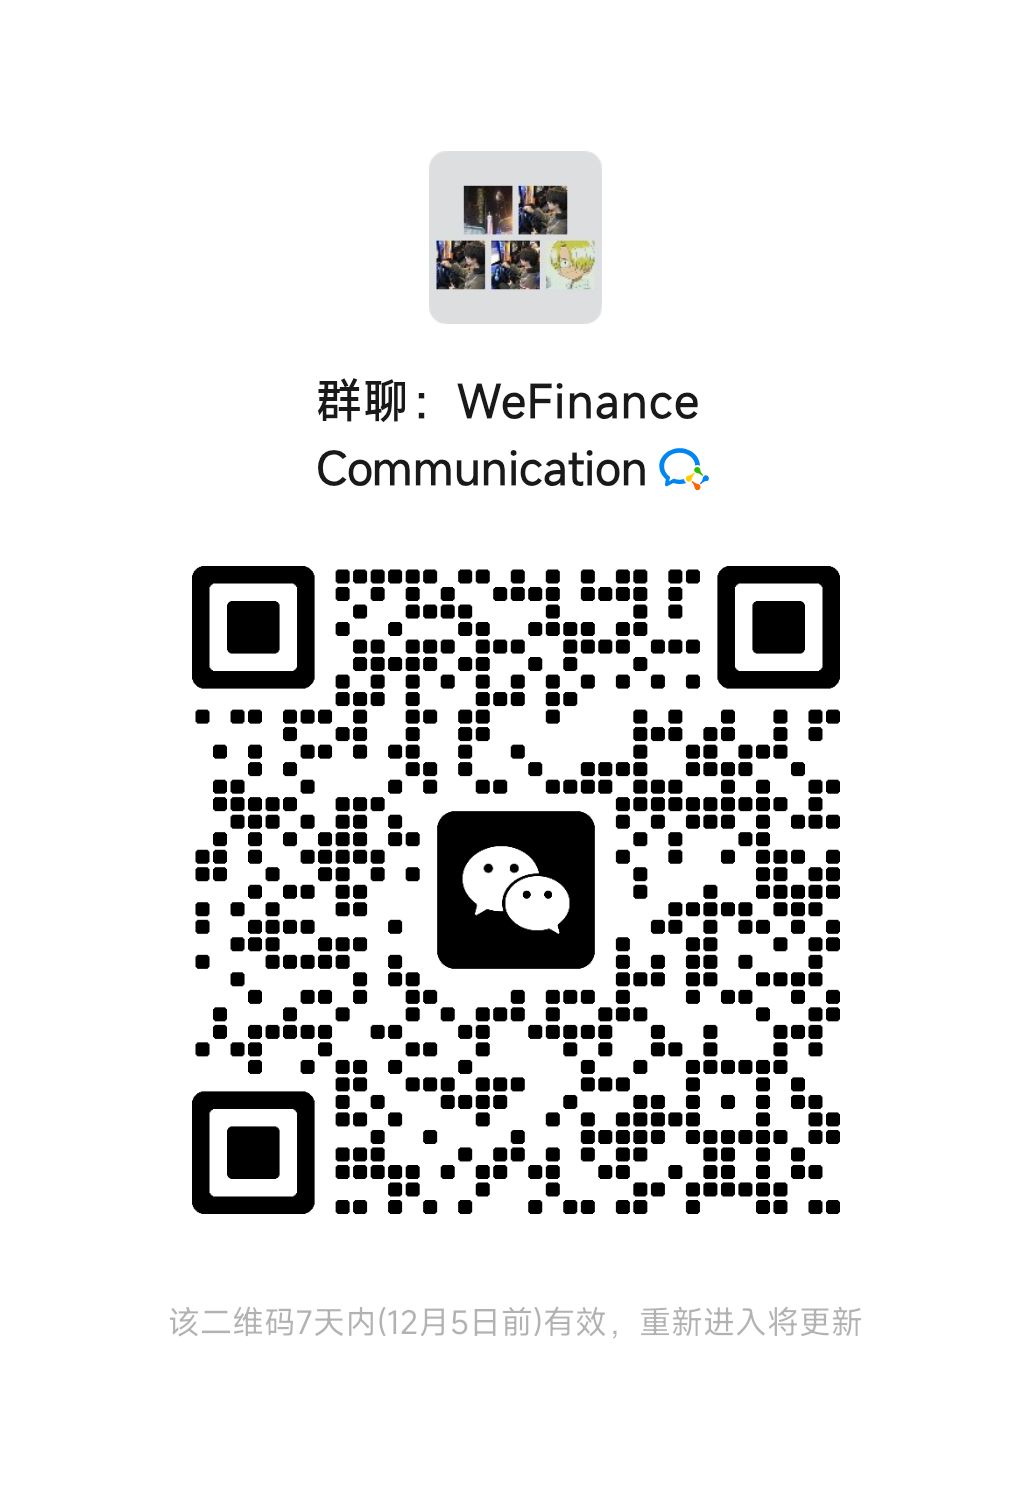
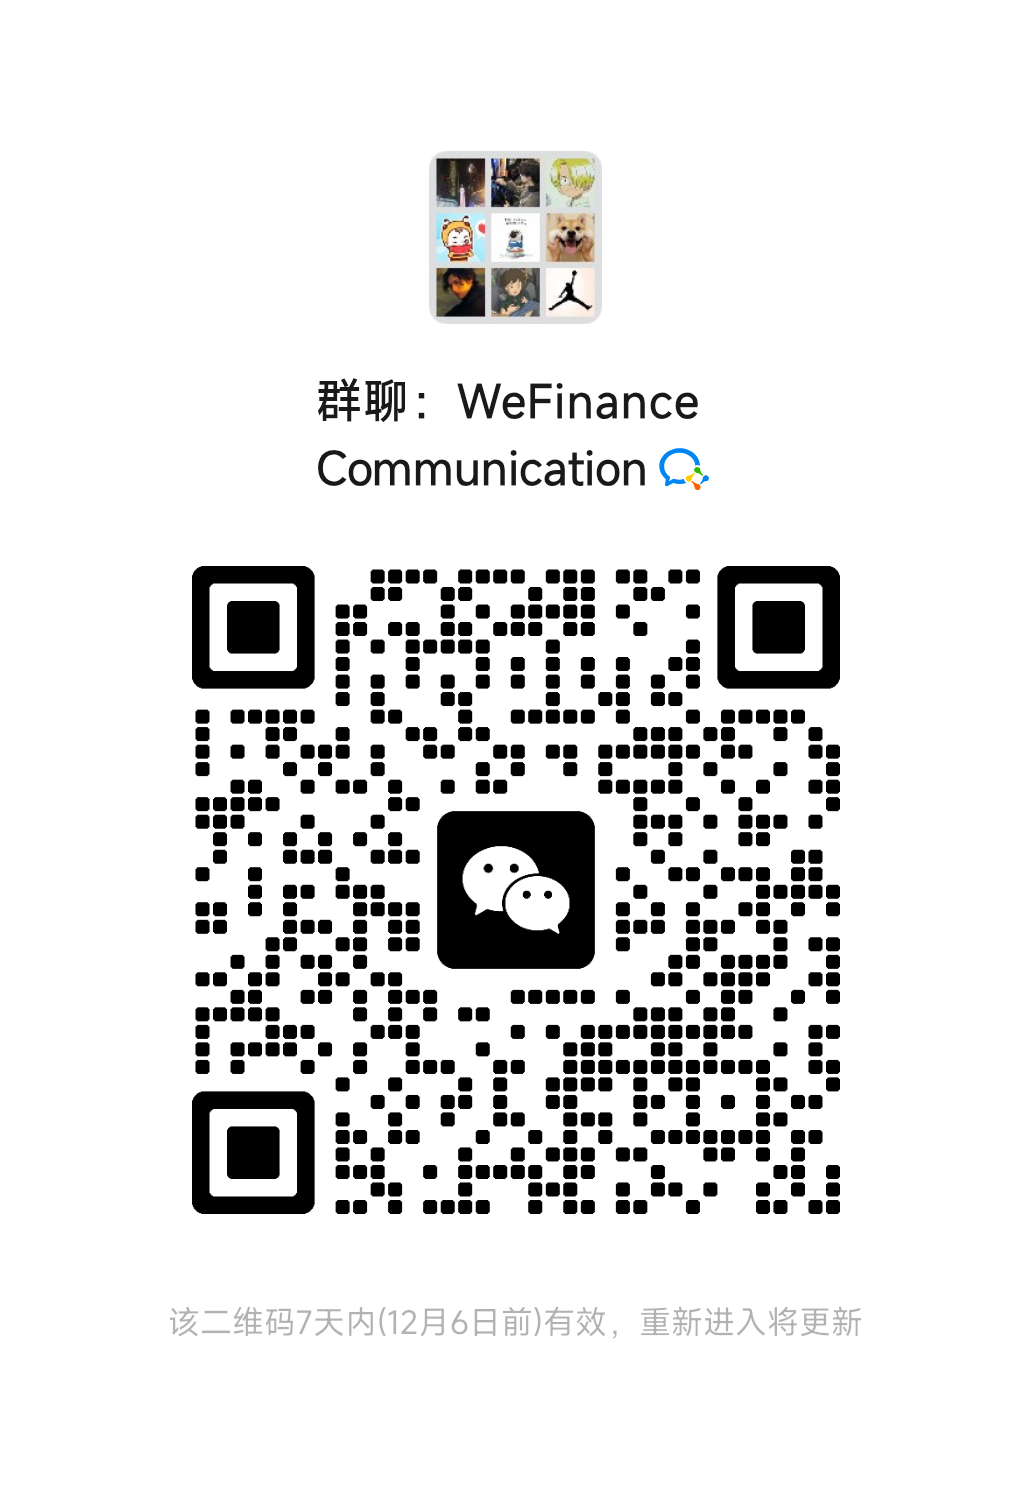
docs: update WeChat community QR code (valid until Dec 6)

Changed region(s): [[0.1862, 0.3692, 0.838, 0.8308], [0.4035, 0.0923, 0.5897, 0.2154]]

diff --git a/README.md b/README.md
@@ -424,7 +424,7 @@ Scan the QR code to join our WeChat group for discussions, support, and updates:
 
 <div align="center">
   <img src="./vx_chat.png" alt="WeChat Group QR Code" width="300"/>
-  <p><em>QR code valid until December 5, 2025. Will be updated after expiration.</em></p>
+  <p><em>QR code valid until December 6, 2025. Will be updated after expiration.</em></p>
 </div>
 
 ---

diff --git a/README_zh-CN.md b/README_zh-CN.md
@@ -424,7 +424,7 @@ python scripts/test_vision_ocr.py --show-details --dump-json
 
 <div align="center">
   <img src="./vx_chat.png" alt="微信群二维码" width="300"/>
-  <p><em>二维码有效期至2025年12月5日，过期后将更新</em></p>
+  <p><em>二维码有效期至2025年12月6日，过期后将更新</em></p>
 </div>
 
 ---
